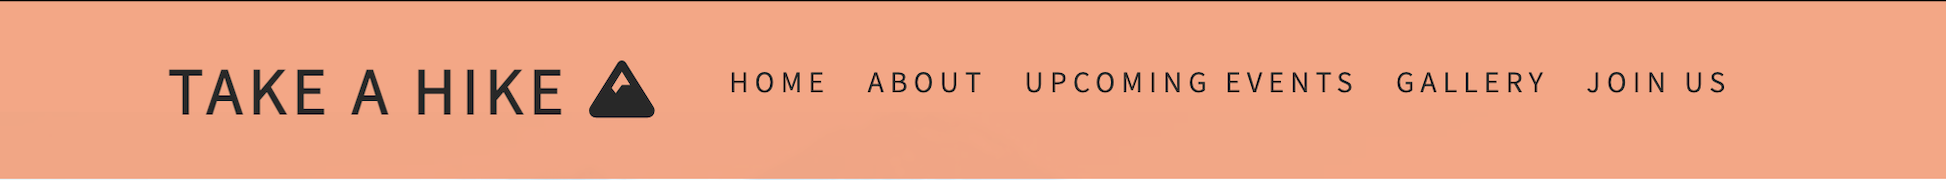
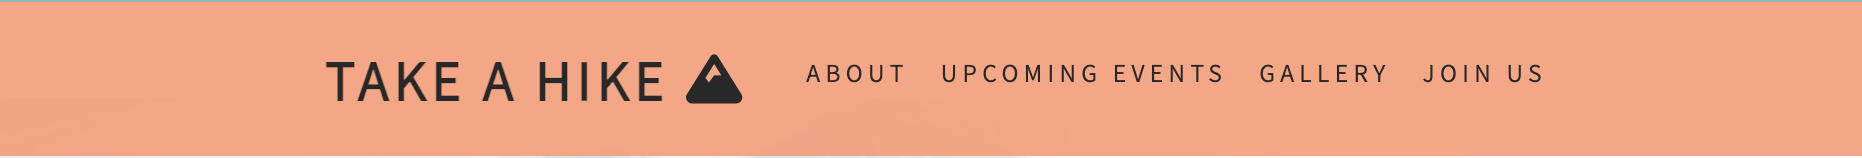
Update navigation bar image in readme.md file

Changed region(s): [[0.0623, 0.3291, 0.9033, 0.6582], [0.0, 0.9873, 1.0, 1.0], [0.0, 0.0, 1.0, 0.0253]]

diff --git a/README.md b/README.md
@@ -270,7 +270,7 @@ If you need to make a local clone:
 - Code institute for the Mentors Tutors on the course. Especially our Facilitator and Masterclass mentor [Simen Daehlin](https://github.com/Eventyret)
 - My Mentor [Jubril Akolade](@jubril_mentor) for guiding me in the right direction and helping me establish good coding practice. Also for his guidance and advice on developing a more responsive website.
 - My fellow classmates for their ideas and enthusiasm on our facilitator sessions and masterclasses, and also their support on Slack.
-- Everybody on Slack for tips, advice, quick fixes and kind words.
+- Everybody on Slack for tips, advice, quick fixes and kind words. Especially Chris Williams who gave me great advice and pointed me in the right direction for better coding practice.
 - My family for their support and patience.
 
 #### RETURN TO THE [TOP](#take-a-hike)
